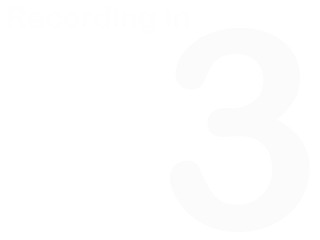
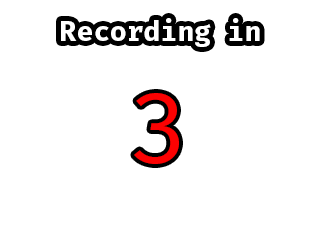
LO interface update

Changed region(s): [[0.1562, 0.0583, 0.8438, 0.2333], [0.4062, 0.35, 0.5938, 0.7]]

diff --git a/LinedrawingTimelapse.py b/LinedrawingTimelapse.py
@@ -45,6 +45,7 @@ class LinedrawingTimelapse(Thread):
         self.last_capture_time = time.time()
         self.last_preview_time = time.time()
         self.last_countdown_time = time.time()
+        self.last_live_time = 0
         self.capture_index = 0
         self.preview_index = 0
         self.first_capture = None
@@ -76,10 +77,12 @@ class LinedrawingTimelapse(Thread):
         self.anim_starting = ["assets/recording_in_1.png", "assets/recording_in_2.png", "assets/recording_in_3.png",
                               "assets/recording_in_4.png", "assets/recording_in_5.png"]
         self.graphic_default_lines = "assets/default_lines.png"
-        self.graphic_less_lines = "assets/less_lines.png"
+        self.graphic_less_lines = "assets/fewer_lines.png"
         self.graphic_more_lines = "assets/more_lines.png"
-        self.graphic_live_preview = "assets/live_preview.png"
+        self.graphic_live_preview = "assets/setup_mode.png"
         self.graphic_loop = "assets/loop.png"
+        self.graphic_recording_mode = "assets/recording_mode.png"
+        self.graphic_recording_warning = "assets/recording_warning.png"
 
     def run(self):
         while not self.cancelled:
@@ -195,6 +198,11 @@ class LinedrawingTimelapse(Thread):
             # Show loop icon if the timelapse is longer than 30 seconds and it's looped over.
             if self.preview_index < 2 and self.capture_index * self.config["timelapse_preview_speed"] >= 30:
                 current_frame = self.paste_png(current_frame, self.graphic_loop)
+            else:
+                if current_time - self.live_start_time <= self.config['recording_warning_timeout'] and self.showing_live is False:
+                    current_frame = self.paste_png(current_frame, self.graphic_recording_warning)
+                else:
+                    current_frame = self.paste_png(current_frame, self.graphic_recording_mode)
 
             # Show frame
             if current_frame is not None:
@@ -213,12 +221,14 @@ class LinedrawingTimelapse(Thread):
                 logging.info("Switched to / from Live mode")
                 self.showing_live = not self.showing_live
                 self.live_start_time = current_time
+                self.current_info_text = None
                 time.sleep(0.2)
         else:
             if self.key_pressed == ord('1'):
                 logging.info("Switched to / from Live mode")
                 self.showing_live = not self.showing_live
                 self.live_start_time = current_time
+                self.current_info_text = None
                 time.sleep(0.2)
 
         # live mode
@@ -233,6 +243,8 @@ class LinedrawingTimelapse(Thread):
                 if current_time - self.live_start_time <= self.config["info_text_timeout"]:
                     if self.current_info_text is not None:
                         live_frame = self.paste_png(live_frame, self.current_info_text)
+                    else:
+                        live_frame = self.paste_png(live_frame, self.graphic_live_preview)
                 else:
                     self.current_info_text = None
                     live_frame = self.paste_png(live_frame, self.graphic_live_preview)
